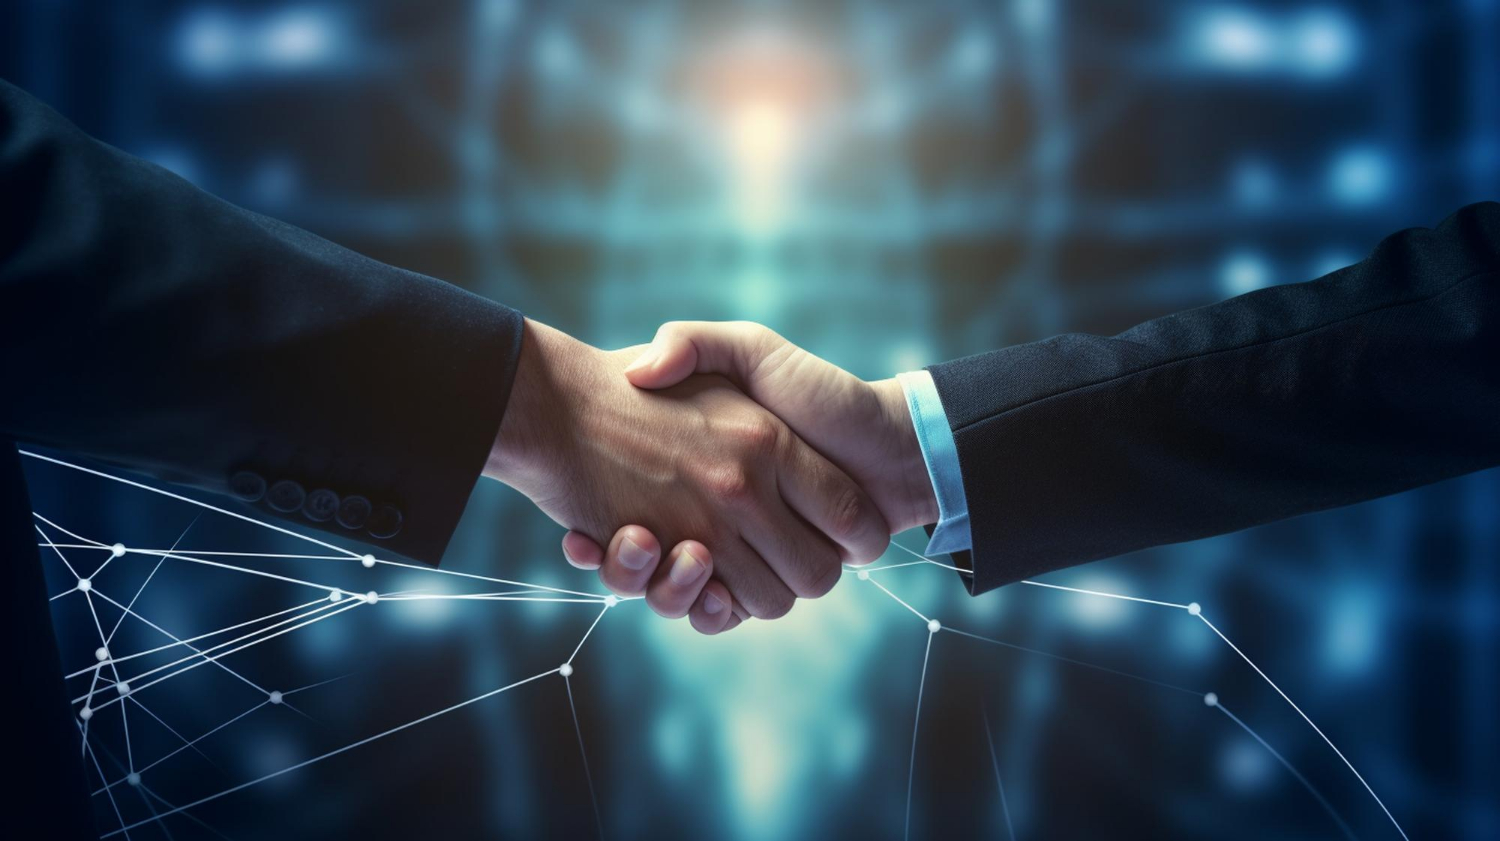
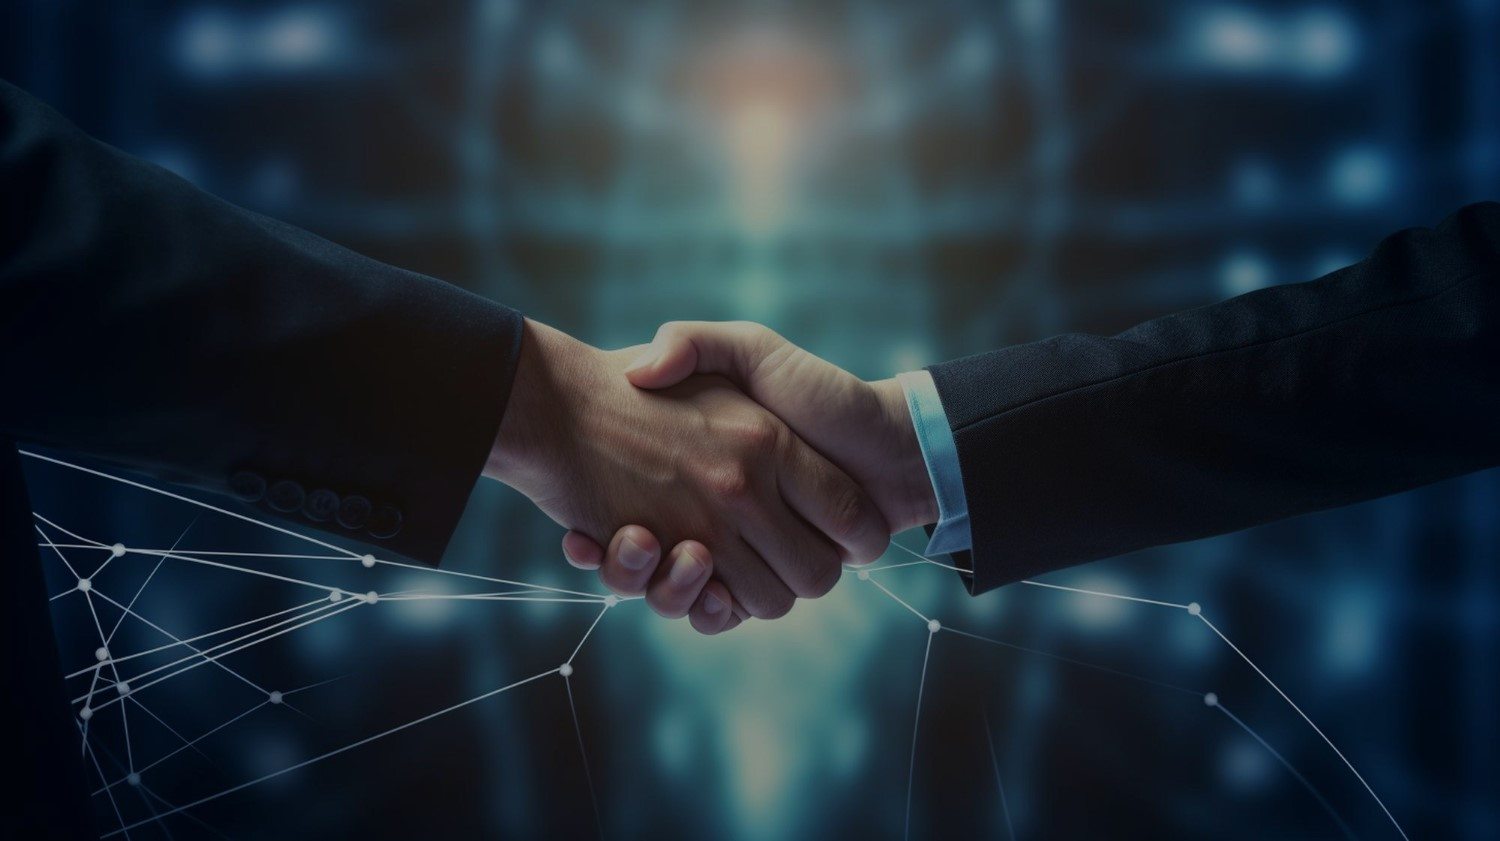
Final Commit

diff --git a/style.css b/style.css
@@ -89,6 +89,14 @@ header {
     color: crimson;
 }
 
+.herobuttontext:hover {
+    color: crimson;
+}
+
+.form3:hover {
+    color: crimson;
+    cursor: pointer;
+}
 
 
 .hero {
@@ -179,6 +187,8 @@ header {
     display: flex;
     flex-direction: row;
     justify-content: center;
+    text-decoration: none;
+    cursor: pointer;
     align-items: center;
     padding: 1.1805vw 1.6667vw 1.1805vw 1.6667vw;
     flex: none;
@@ -345,7 +355,8 @@ header {
     display: flex;
     flex-direction: row;
     justify-content: center;
-    align-items: center;text-decoration: none;
+    align-items: center;
+    text-decoration: none;
     cursor: pointer;
     padding: 0.8333vw 1.3889vw 0.8333vw 1.3889vw;
     flex: none;
@@ -974,16 +985,158 @@ align-items: flex-start;
 padding: 4.44vw 3.33vw 4.44vw 3.33vw;
 background-image: url(assets/handshake.jpg);
 background-size: cover;
-border-radius: 16px;}
+background-position: 0px -10vw;
+border-radius: 1.1111vw;}
+
+.supportbox {
+position: static;
+width: 72.5vw;
+height: 12.8472vw;
+display: flex;
+flex-direction: column;
+justify-content: center;
+align-items: center;
+margin: 1vw;
+}
+
+.supportboxtextbox {
+position: static;
+width: 50.6944vw;
+height: 7.2222vw;
+display: flex;
+flex-direction: column;
+justify-content: center;
+align-items: center;
+margin: 1.6667vw;
+}
+
+.supportboxtextboxhead {
+position: static;
+width: 20.27778vw;
+height: 2.5vw;
+display: flex;
+margin: 0.2vw;
+color: rgb(255, 255, 255);
+font-family: Azeret Mono;
+font-size: 2.22vw;
+font-weight: 700;
+line-height: 2.5vw;
+text-align: center;
+}
+
+.supportboxtextboxtext {
+position: static;
+width: 42.08333vw;
+height: 3.6111vw;
+display: flex;
+margin: 0.2vw;
+opacity: 0.7;
+color: rgb(255, 255, 255);
+font-family: Azeret Mono;
+font-size: 1.111vw;
+font-weight: 400;
+line-height: 1.8056vw;
+letter-spacing: 0%;
+text-align: center;
+}
+
+.form {
+position: static;
+width: 47.5;
+height: 3.9583;
+display: flex;
+flex-direction: row;
+justify-content: flex-start;
+align-items: flex-start;
+}
+
+.form2 {
+position: static;
+width: 38.05556vw;
+height: 3.9583vw;
+padding: 1.3194vw 1.3889vw 1.3194vw 1.3889vw;
+margin: 0px 1.1111vw;
+box-sizing: border-box;
+border: 0.3vw solid rgba(13, 19, 33, 0.15);
+border-radius: 0.5556vw;
+background: rgb(255, 255, 255);
+color: rgba(13, 19, 33, 0.4);
+font-family: Azeret Mono;
+font-size: 1.1111vw;
+font-weight: 400;
+line-height: 1.3194vw;
+letter-spacing: 0%;
+text-align: center;
+}
+
+.form3 {
+position: static;
+width: 8.3333vw;
+height: 3.9583vw;
+flex: none;
+order: 1;
+flex-grow: 0;
+margin: 0px 1.1111vw;
+border-radius: 0.5556vw;
+background: rgb(255, 255, 255);
+color: rgb(13, 19, 33);
+font-family: Azeret Mono;
+font-size: 1.3889vw;
+font-weight: 600;
+text-align: center;
+}
 
 footer {
     position: absolute;
     width: 98.7vw;
     height: 10vw;
-    top: 380vw;
+    top: 325vw;
     display: flex;
     flex-direction: column;
     justify-content: flex-start;
     align-items: flex-start;
     background-color: rgba(13, 19, 33, 0.03);
 }
+
+.footertext {
+position: static;
+width: 31.6667vw;
+height: 1.59722vw;
+display: flex;
+margin-top: 4.5vw;
+margin-left: 6vw;
+color: rgb(13, 19, 33);
+font-family: Azeret Mono;
+font-size: 1.38889vw;
+font-weight: 600;
+line-height: 1.597222vw;
+letter-spacing: 0%;
+text-align: center;
+}
+
+.footerimage1 {
+    display: flex;
+position: absolute;
+width: 2.55972vw;
+height: 2.4965vw;
+margin-top: 3.5vw;
+margin-left: 91vw;
+}
+
+.footerimage2 {
+    display: flex;
+    position: absolute;
+    width: 2.55972vw;
+    height: 2.4965vw;
+    margin-top: 3.5vw;
+    margin-left: 85vw;
+    }
+
+.footerimage3 {
+    position: absolute;
+    display: flex;
+    width: 2.55972vw;
+    height: 2.4965vw;
+    margin-top: 3.5vw;
+    margin-left: 79vw;
+    }

diff --git a/index.html b/index.html
@@ -20,7 +20,7 @@
             <div class="text1">"In the near future, I hope to become a Developer."</div>
             <div class="text2">I am a newbie in web development and I am confident that I will be a expert in Web development if I always stay regular and consistent</div>
             <div class="herobutton">
-                <div class="herobuttontext">Contact With Me</div>
+                <a class="herobuttontext" href="#formsection">Contact With Me</a>
             </div>
         </div>
     </section>
@@ -88,21 +88,45 @@
                 <img class="section4image1pic" src="assets/html.png" alt="">
                 <div class="section4image1head">HTML</div>
                 <div class="section4image1text">Hypertext Markup Language is used to build web page</div>
-                <a class="section4image1link" href="https://en.wikipedia.org/wiki/HTML">Learn More</a>
+                <a class="section4image1link" href="https://en.wikipedia.org/wiki/HTML" target="_blank">Learn More</a>
             </div>
             <div class="section4image2">
                 <img class="section4image2pic" src="assets/css.png" alt="">
                 <div class="section4image2head">CSS</div>
                 <div class="section4image2text">Cascading Style Sheets is used to design web pages</div>
-                <a class="section4image2link" href="https://en.wikipedia.org/wiki/CSS">Learn More</a>
+                <a class="section4image2link" href="https://en.wikipedia.org/wiki/CSS" target="_blank">Learn More</a>
             </div>
             <div class="section4image3">
                 <img class="section4image3pic" src="assets/js.png" alt="">
                 <div class="section4image3head">JavaScript</div>
                 <div class="section4image3text">It is a scripting language used to build web pages</div>
-                <a class="section4image3link" href="https://en.wikipedia.org/wiki/JavaScript">Learn More</a>
+                <a class="section4image3link" href="https://en.wikipedia.org/wiki/JavaScript" target="_blank">Learn More</a>
             </div>
         </div>
     </section>
+    
+    <section class="supportsection">
+    <div class="supportbox">
+        <div class="supportboxtextbox">
+            <div class="supportboxtextboxhead">I need Support</div>
+            <div class="supportboxtextboxtext">If you have any recommendation or suggestion please let me know about your thoughts</div>
+        </div>
+        <form id="formsection" class="form">
+            <input class="form2" type="text" id="textbox" name="textbox" placeholder="Suggest me any feedback for me">
+            <button class="form3" type="submit">Submit</button>
+        </form>          
+    </div>
+    </section>
+    
+    <footer>
+        <div class="footertext">An Open Commitment by Sami Hassan</div>
+          <a class="footerimage1" href="https://www.linkedin.com/" target="_blank">
+            <img src="assets/linkedin-icon 1.png" alt=""></a>
+          <a class="footerimage2" href="https://github.com/Sami-HC" target="_blank">
+            <img src="assets/github.png" alt=""></a>
+          <a class="footerimage3" href="https://www.facebook.com/" target="_blank">
+            <img src="assets/facebook.png" alt=""></a>
+        
+    </footer>
 </body>
 </html>
